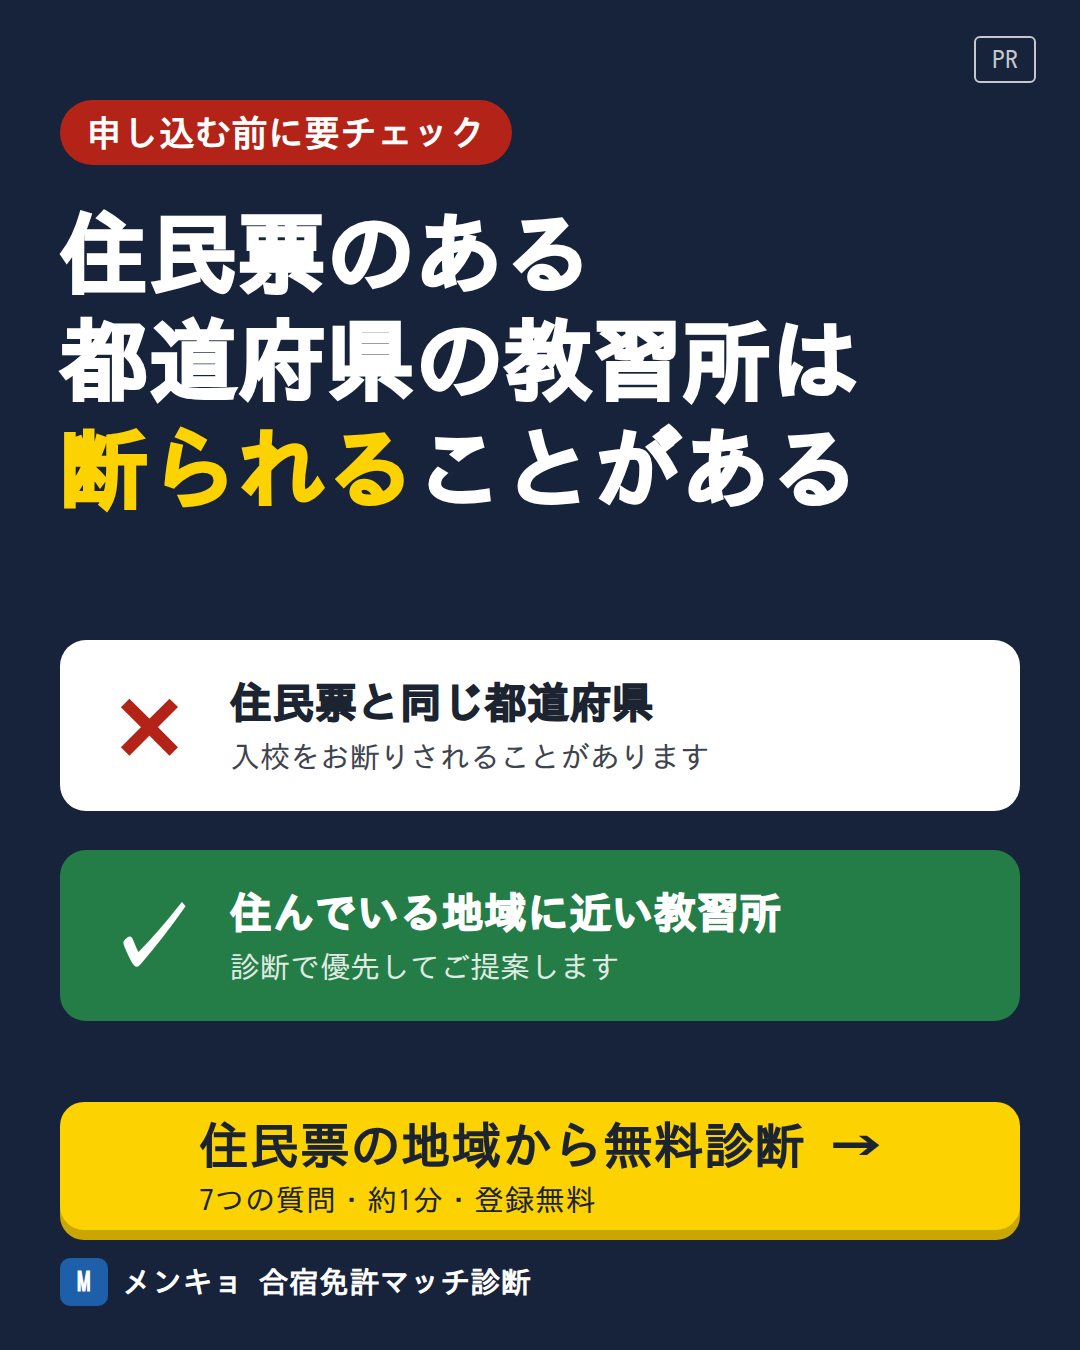
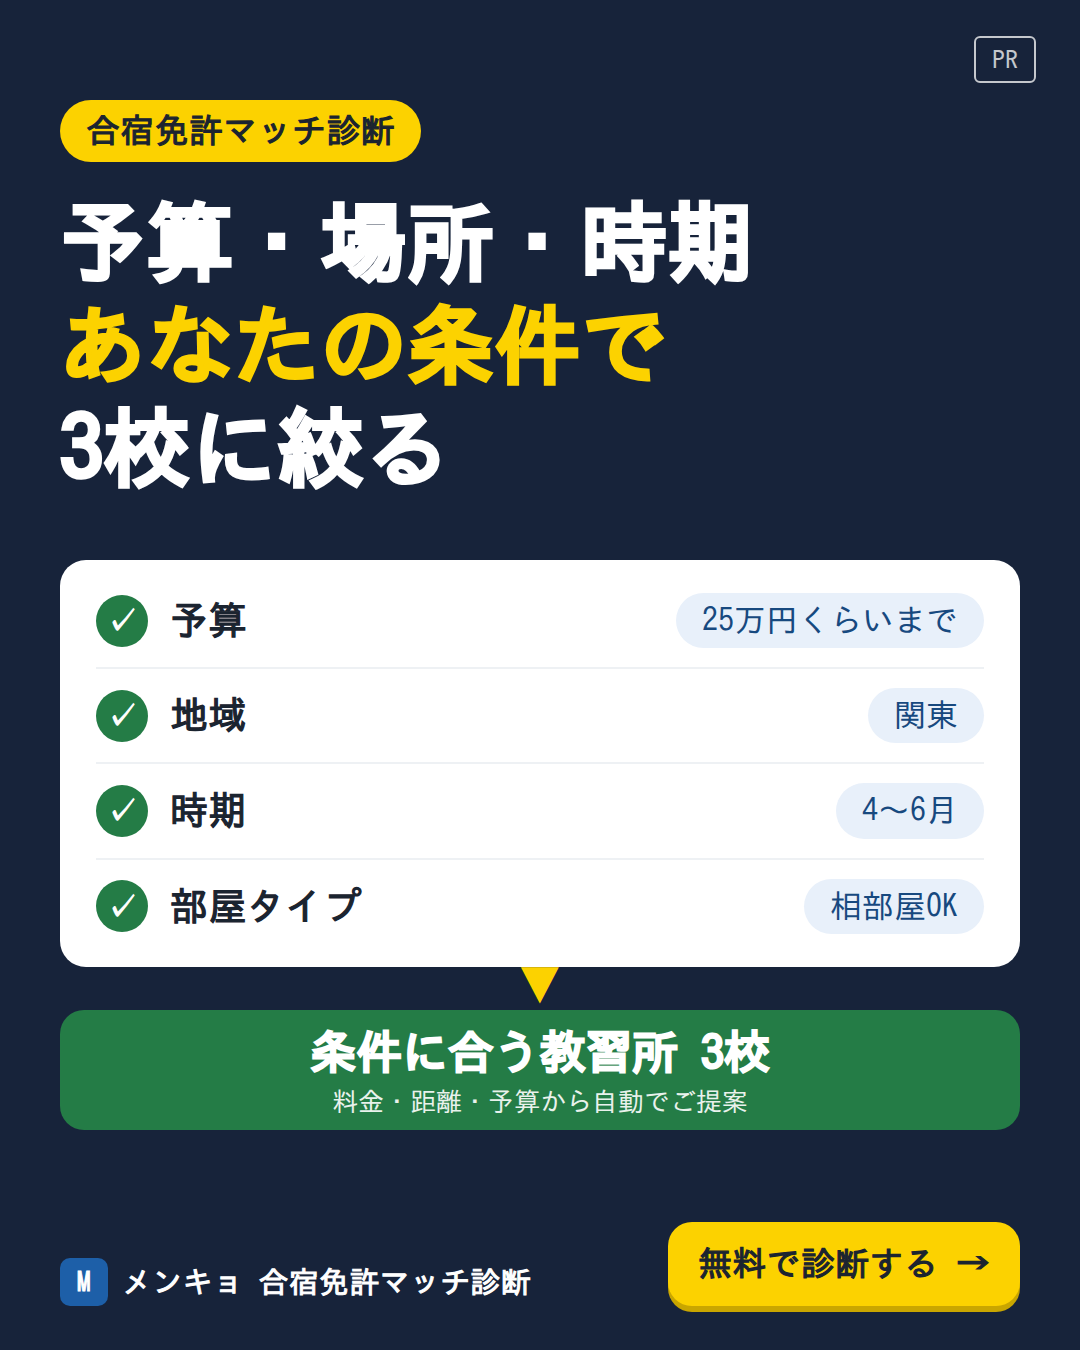
Replace ad 2 with criteria-match angle (budget, area, timing, room type)
Claude-Session: https://claude.ai/code/session_01RodvzW4Mi6oJnojCwobhV4

diff --git a/ads/src/ad2.html b/ads/src/ad2.html
@@ -1,21 +1,31 @@
 <!doctype html><meta charset="utf-8"><link rel="stylesheet" href="base.css"><style>
 body{background:#17233a;color:#fff}
-.tag{position:absolute;top:100px;left:60px;background:#b42318;color:#fff;font-size:36px;padding:8px 26px;border-radius:40px}
-h1{position:absolute;left:60px;right:60px;top:200px;font-size:88px;line-height:1.22}
+.tag{position:absolute;top:100px;left:60px;background:#fcd200;color:#1b2430;font-size:34px;padding:8px 26px;border-radius:40px}
+h1{position:absolute;left:60px;right:60px;top:190px;font-size:86px;line-height:1.2}
 h1 em{font-style:normal;color:#fcd200}
-.card{position:absolute;left:60px;right:60px;border-radius:26px;padding:34px 40px;display:flex;gap:30px;align-items:center}
-.c1{top:640px;background:#fff;color:#1b2430}
-.c2{top:850px;background:#247c46;color:#fff}
-.ic{font-size:90px;line-height:1;flex:none;width:100px;text-align:center}
-.c1 .ic{color:#b42318}
-.card h2{font-size:42px}.card p{font-size:30px;margin-top:6px;opacity:.85}
+.list{position:absolute;left:60px;right:60px;top:560px;background:#fff;color:#1b2430;border-radius:26px;padding:14px 36px}
+.r{display:flex;align-items:center;gap:22px;padding:19px 0;border-bottom:2px solid #eef1f4;font-size:38px}
+.r:last-child{border:0}
+.ck{flex:none;width:52px;height:52px;border-radius:50%;background:#247c46;color:#fff;display:grid;place-items:center;font-size:32px}
+.r span.k{width:210px;flex:none}
+.chip{margin-left:auto;background:#e8f0fa;color:#17497f;border-radius:40px;padding:6px 26px;font-size:32px}
+.arrow{position:absolute;left:0;right:0;top:962px;text-align:center;font-size:44px;color:#fcd200;line-height:1}
+.res{position:absolute;left:60px;right:60px;top:1010px;height:120px;border-radius:24px;background:#247c46;display:flex;flex-direction:column;align-items:center;justify-content:center}
+.res b{font-size:46px;-webkit-text-stroke:.035em #fff}.res small{font-size:26px;opacity:.9}
+.cta{bottom:44px;left:auto;right:60px;width:auto;height:84px;padding:0 30px;font-size:34px;box-shadow:0 6px 0 #c9a600}
+.cta small{display:none}
 .pr{color:#fff}.brand{color:#fff}
 </style><body>
 <div class="pr">PR</div>
-<div class="tag b">申し込む前に要チェック</div>
-<h1 class="b">住民票のある<br>都道府県の教習所は<br><em>断られる</em>ことがある</h1>
-<div class="card c1"><div class="ic b">✕</div><div><h2 class="b">住民票と同じ都道府県</h2><p>入校をお断りされることがあります</p></div></div>
-<div class="card c2"><div class="ic b">✓</div><div><h2 class="b">住んでいる地域に近い教習所</h2><p>診断で優先してご提案します</p></div></div>
-<div class="cta b"><div>住民票の地域から無料診断 →<small>7つの質問・約1分・登録無料</small></div></div>
+<div class="tag b">合宿免許マッチ診断</div>
+<h1 class="b">予算・場所・時期<br><em>あなたの条件で</em><br>3校に絞る</h1>
+<div class="list">
+<div class="r"><div class="ck b">✓</div><span class="k b">予算</span><span class="chip">25万円くらいまで</span></div>
+<div class="r"><div class="ck b">✓</div><span class="k b">地域</span><span class="chip">関東</span></div>
+<div class="r"><div class="ck b">✓</div><span class="k b">時期</span><span class="chip">4〜6月</span></div>
+<div class="r"><div class="ck b">✓</div><span class="k b">部屋タイプ</span><span class="chip">相部屋OK</span></div></div>
+<div class="arrow b">▼</div>
+<div class="res"><b>条件に合う教習所 3校</b><small>料金・距離・予算から自動でご提案</small></div>
+<div class="cta b">無料で診断する →</div>
 <div class="brand"><i class="b">M</i><span class="b">メンキョ 合宿免許マッチ診断</span></div>
 </body>
